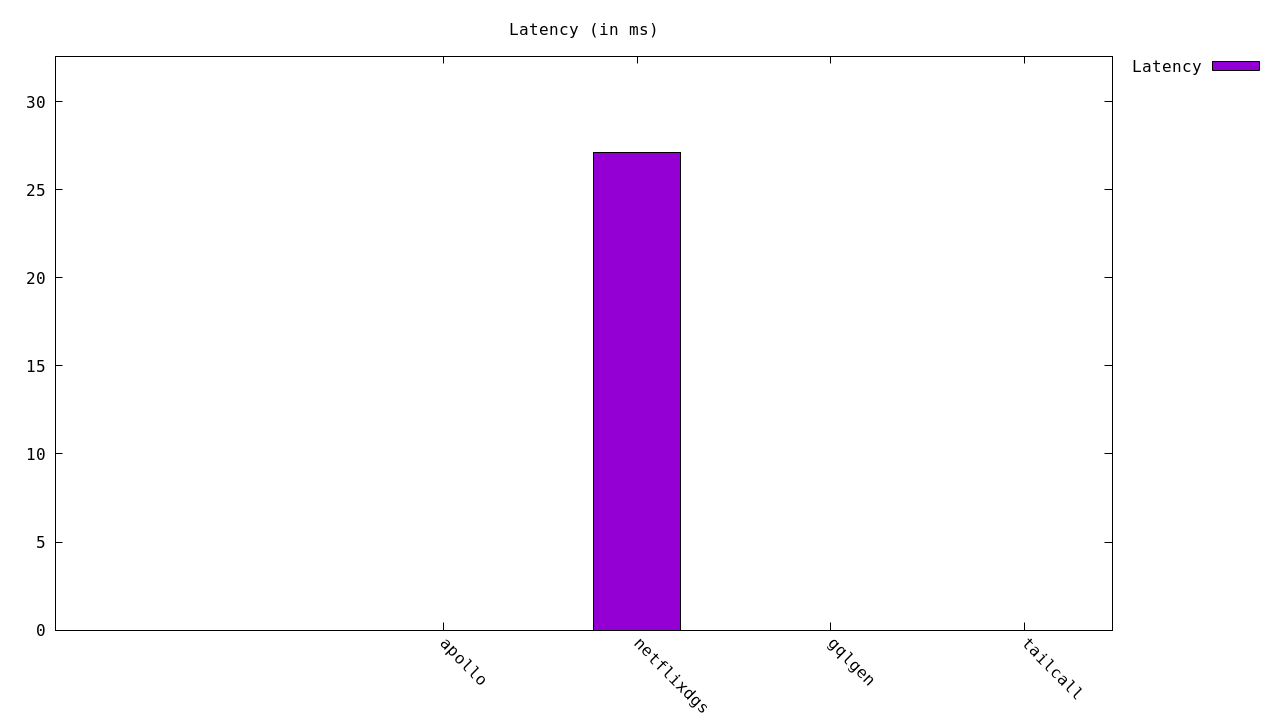
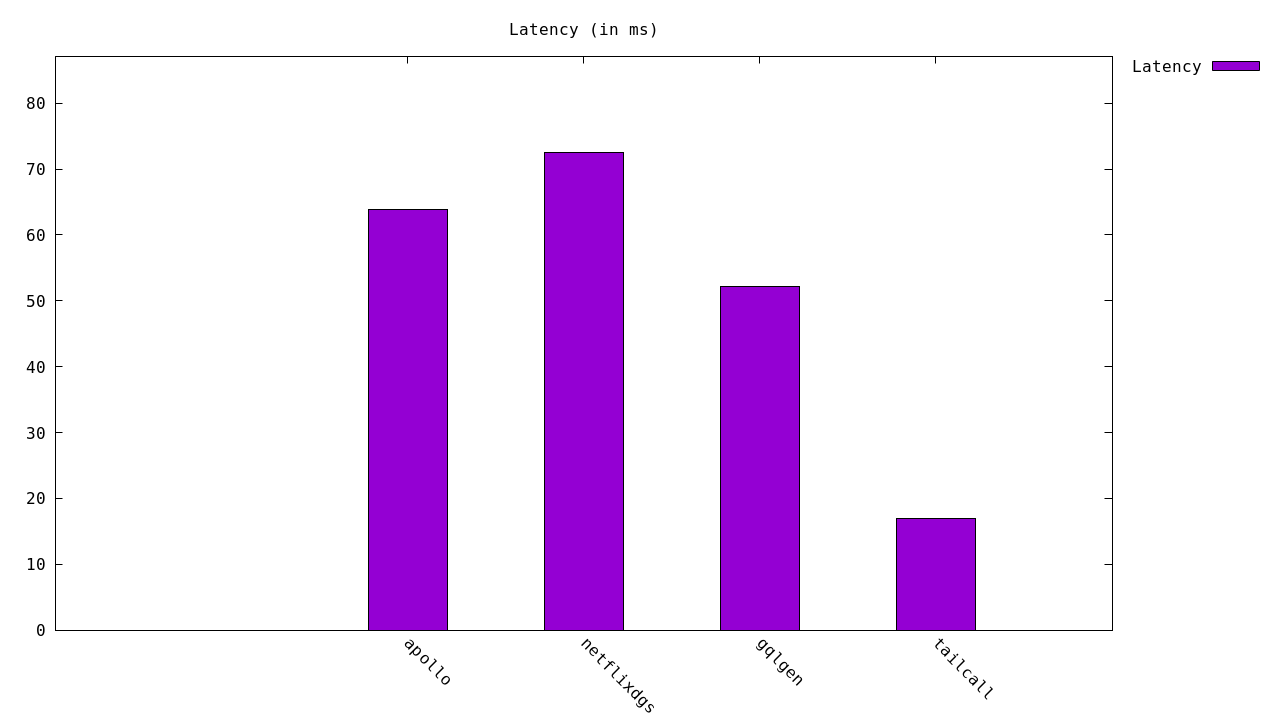
Update performance results in README.md

diff --git a/README.md b/README.md
@@ -45,10 +45,10 @@ Get started with the benchmarks:
 
 | Server | Requests/sec | Latency (ms) |
 |--------:|--------------:|--------------:|
-| [Netflix DGS] | `4,673.95` | `27.13` |
-| [Tailcall] | `nan` | `nan` |
-| [Gqlgen] | `nan` | `nan` |
-| [Apollo GraphQL] | `nan` | `nan` |
+| [Tailcall] | `5,868.55` | `17.01` |
+| [Gqlgen] | `1,989.76` | `52.22` |
+| [Apollo GraphQL] | `1,566.85` | `63.85` |
+| [Netflix DGS] | `1,439.02` | `72.57` |
 
 <!-- PERFORMANCE_RESULTS_END -->
 
